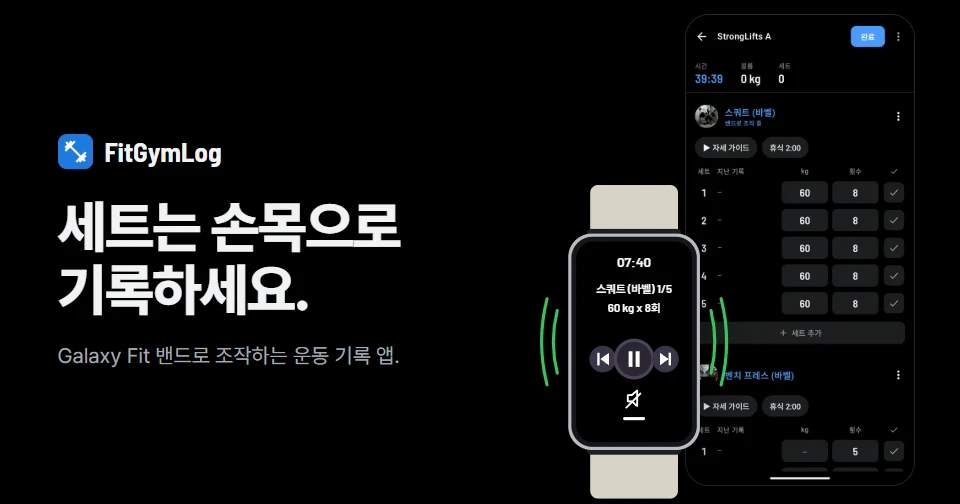
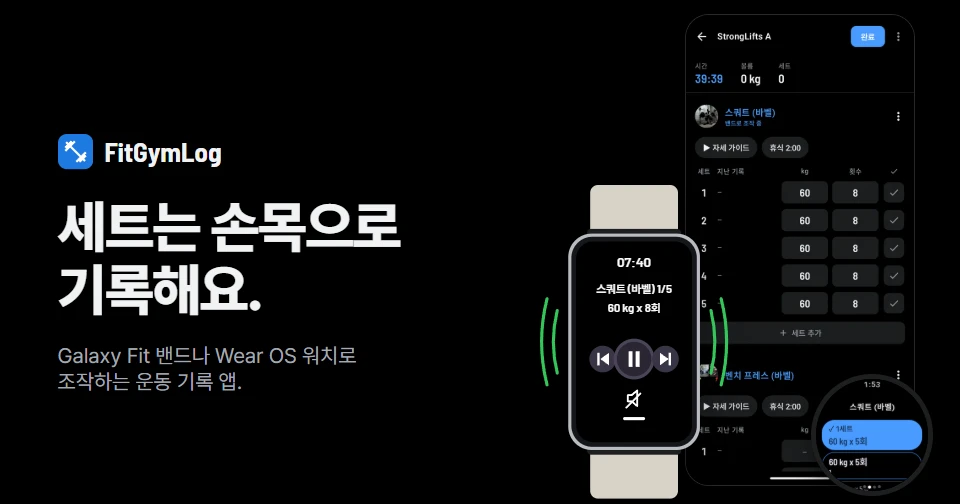
FitGymLog: the Wear OS watch on the thumbnail and in the card text, Korean headline as on the site

diff --git a/ja/index.html b/ja/index.html
@@ -48,7 +48,7 @@
           <button type="button" class="zoom slide-shot" aria-label="画像を拡大: FitGymLog" data-goatcounter-click="zoom-fitgymlog"><img class="thumb" src="../assets/thumbs/fitgymlog-en.webp" srcset="../assets/thumbs/fitgymlog-en.webp 960w, ../assets/thumbs/full/fitgymlog-en.webp 2400w" sizes="(max-width: 760px) 100vw, 780px" width="960" height="504" alt=""></button>
           <div class="slide-text">
             <h3 class="slide-name"><a href="https://wonjoonseol.github.io/fitgymlog/" data-goatcounter-click="title-fitgymlog">FitGymLog</a></h3>
-            <p class="what">Galaxy Fitバンドで操作する筋トレ記録アプリ。バンドの再生ボタンでセット完了、休憩が終わると振動でお知らせ、プレートをタップしてバーの重さを組めます。</p>
+            <p class="what">Galaxy FitバンドやWear OSウォッチで操作する筋トレ記録アプリ。バンドの再生ボタンかウォッチのタップでセット完了、休憩が終わると振動でお知らせ、プレートをタップしてバーの重さを組めます。</p>
           
             <p class="links"><a class="try" href="https://wonjoonseol.github.io/fitgymlog/" data-goatcounter-click="try-fitgymlog">サイトを見る</a><a class="code" href="https://github.com/wonjoonSeol/fitgymlog" data-goatcounter-click="code-fitgymlog">コード</a></p>
           </div>
@@ -119,7 +119,7 @@
           <p class="platform">Android<span class="license" title="ライセンス">MIT</span></p>
           <h3 class="name"><a href="https://wonjoonseol.github.io/fitgymlog/" data-goatcounter-click="title-fitgymlog">FitGymLog</a></h3>
           <p class="here-note">ここから来られました</p>
-          <p class="what">Galaxy Fitバンドで操作する筋トレ記録アプリ。バンドの再生ボタンでセット完了、休憩が終わると振動でお知らせ、プレートをタップしてバーの重さを組めます。</p>
+          <p class="what">Galaxy FitバンドやWear OSウォッチで操作する筋トレ記録アプリ。バンドの再生ボタンかウォッチのタップでセット完了、休憩が終わると振動でお知らせ、プレートをタップしてバーの重さを組めます。</p>
           
           <p class="links"><a class="try" href="https://wonjoonseol.github.io/fitgymlog/" data-goatcounter-click="try-fitgymlog">試してみる</a><a class="code" href="https://github.com/wonjoonSeol/fitgymlog" data-goatcounter-click="code-fitgymlog">コード</a></p>
           </div>

diff --git a/ko/index.html b/ko/index.html
@@ -48,7 +48,7 @@
           <button type="button" class="zoom slide-shot" aria-label="이미지 크게 보기: FitGymLog" data-goatcounter-click="zoom-fitgymlog"><img class="thumb" src="../assets/thumbs/fitgymlog-ko.webp" srcset="../assets/thumbs/fitgymlog-ko.webp 960w, ../assets/thumbs/full/fitgymlog-ko.webp 2400w" sizes="(max-width: 760px) 100vw, 780px" width="960" height="504" alt=""></button>
           <div class="slide-text">
             <h3 class="slide-name"><a href="https://wonjoonseol.github.io/fitgymlog/ko/" data-goatcounter-click="title-fitgymlog">FitGymLog</a></h3>
-            <p class="what">갤럭시 핏 밴드로 조작하는 운동 기록 앱이에요. 밴드에서 재생을 누르면 세트가 끝나고, 쉬는 시간이 끝나면 진동이 와요. 원판을 눌러 무게를 올려요.</p>
+            <p class="what">갤럭시 핏 밴드나 Wear OS 워치로 조작하는 운동 기록 앱이에요. 밴드에서 재생을 누르거나 워치를 누르면 세트가 끝나고, 쉬는 시간이 끝나면 진동이 와요. 원판을 눌러 무게를 올려요.</p>
           
             <p class="links"><a class="try" href="https://wonjoonseol.github.io/fitgymlog/ko/" data-goatcounter-click="try-fitgymlog">사이트 가기</a><a class="code" href="https://github.com/wonjoonSeol/fitgymlog" data-goatcounter-click="code-fitgymlog">코드</a></p>
           </div>
@@ -119,7 +119,7 @@
           <p class="platform">안드로이드<span class="license" title="라이선스">MIT</span></p>
           <h3 class="name"><a href="https://wonjoonseol.github.io/fitgymlog/ko/" data-goatcounter-click="title-fitgymlog">FitGymLog</a></h3>
           <p class="here-note">여기서 오셨어요</p>
-          <p class="what">갤럭시 핏 밴드로 조작하는 운동 기록 앱이에요. 밴드에서 재생을 누르면 세트가 끝나고, 쉬는 시간이 끝나면 진동이 와요. 원판을 눌러 무게를 올려요.</p>
+          <p class="what">갤럭시 핏 밴드나 Wear OS 워치로 조작하는 운동 기록 앱이에요. 밴드에서 재생을 누르거나 워치를 누르면 세트가 끝나고, 쉬는 시간이 끝나면 진동이 와요. 원판을 눌러 무게를 올려요.</p>
           
           <p class="links"><a class="try" href="https://wonjoonseol.github.io/fitgymlog/ko/" data-goatcounter-click="try-fitgymlog">써 보기</a><a class="code" href="https://github.com/wonjoonSeol/fitgymlog" data-goatcounter-click="code-fitgymlog">코드</a></p>
           </div>

diff --git a/index.html b/index.html
@@ -47,7 +47,7 @@
           <button type="button" class="zoom slide-shot" aria-label="Enlarge image: FitGymLog" data-goatcounter-click="zoom-fitgymlog"><img class="thumb" src="./assets/thumbs/fitgymlog-en.webp" srcset="./assets/thumbs/fitgymlog-en.webp 960w, ./assets/thumbs/full/fitgymlog-en.webp 2400w" sizes="(max-width: 760px) 100vw, 780px" width="960" height="504" alt=""></button>
           <div class="slide-text">
             <h3 class="slide-name"><a href="https://wonjoonseol.github.io/fitgymlog/" data-goatcounter-click="title-fitgymlog">FitGymLog</a></h3>
-            <p class="what">A workout log you run from a Galaxy Fit band. Press play on the band to finish a set, feel a buzz when rest is over, load the bar by tapping plates.</p>
+            <p class="what">A workout log you run from a Galaxy Fit band or a Wear OS watch. Press play on the band or tap the watch to finish a set, feel a buzz when rest is over, load the bar by tapping plates.</p>
           
             <p class="links"><a class="try" href="https://wonjoonseol.github.io/fitgymlog/" data-goatcounter-click="try-fitgymlog">Visit the site</a><a class="code" href="https://github.com/wonjoonSeol/fitgymlog" data-goatcounter-click="code-fitgymlog">Code</a></p>
           </div>
@@ -118,7 +118,7 @@
           <p class="platform">Android<span class="license" title="License">MIT</span></p>
           <h3 class="name"><a href="https://wonjoonseol.github.io/fitgymlog/" data-goatcounter-click="title-fitgymlog">FitGymLog</a></h3>
           <p class="here-note">You came from this one</p>
-          <p class="what">A workout log you run from a Galaxy Fit band. Press play on the band to finish a set, feel a buzz when rest is over, load the bar by tapping plates.</p>
+          <p class="what">A workout log you run from a Galaxy Fit band or a Wear OS watch. Press play on the band or tap the watch to finish a set, feel a buzz when rest is over, load the bar by tapping plates.</p>
           
           <p class="links"><a class="try" href="https://wonjoonseol.github.io/fitgymlog/" data-goatcounter-click="try-fitgymlog">Try it</a><a class="code" href="https://github.com/wonjoonSeol/fitgymlog" data-goatcounter-click="code-fitgymlog">Code</a></p>
           </div>

diff --git a/thumbs/fitgymlog.css b/thumbs/fitgymlog.css
@@ -1,5 +1,6 @@
-/* FitGymLog card: the site's hero (wordmark, headline, lead) beside the Galaxy Fit3 drawing over a workout screenshot.
-   Positions follow the site's 1200x630 link preview (images/og-*.jpg) scaled by 0.8. */
+/* FitGymLog card: the site's hero (wordmark, headline, lead) beside a workout screenshot with the Galaxy Fit3 drawing
+   on one side and the Wear OS watch on the other. Positions follow the site's 1200x630 link preview (images/og-*.jpg)
+   scaled by 0.8; the watch, added to the hero later, sits where the hero puts it, raised to stay inside the card. */
 html, body { margin: 0; width: 960px; height: 504px; overflow: hidden; }
 body {
   position: relative;
@@ -35,6 +36,14 @@ h1 {
   border: 1px solid #26272b; border-radius: 24px; overflow: hidden; background: #000;
 }
 .phone img { display: block; width: 100%; height: auto; }
+
+/* the hero's .watch at 0.8157 (the phone here is 228.4px against its 280px) */
+.watch {
+  position: absolute; left: 810.8px; top: 374px; width: 122px; height: 122px; box-sizing: border-box;
+  border: 5.7px solid #1d1e21; border-radius: 50%; overflow: hidden; background: #000;
+  box-shadow: 0 .8px 1.6px rgba(0, 0, 0, .5), 0 8.2px 24.5px rgba(0, 0, 0, .45);
+}
+.watch img { display: block; width: 100%; height: 100%; }
 
 .fit3 {
   position: absolute; left: 539.8px; top: 184.8px; width: 188.2px; height: 313.6px;

diff --git a/thumbs/fitgymlog-ko.html b/thumbs/fitgymlog-ko.html
@@ -15,10 +15,11 @@
   <svg viewBox="0 0 32 32" aria-hidden="true"><rect width="32" height="32" rx="8" fill="#1f7ae0"/><g transform="translate(4 4)"><path fill="#fff" d="M20.57,14.86L22,13.43 20.57,12 17,15.57 8.43,7 12,3.43 10.57,2 9.14,3.43 7.71,2 5.57,4.14 4.14,2.71 2.71,4.14l1.43,1.43L2,7.71l1.43,1.43L2,10.57 3.43,12 7,8.43 15.57,17 12,20.57 13.43,22l1.43,-1.43L16.29,22l2.14,-2.14 1.43,1.43 1.43,-1.43 -1.43,-1.43L22,16.29z"/></g></svg>
   FitGymLog
 </div>
-<h1>세트는 손목으로<br>기록하세요.</h1>
-<p class="lead">Galaxy Fit 밴드로 조작하는 운동 기록 앱.</p>
+<h1>세트는 손목으로<br>기록해요.</h1>
+<p class="lead">Galaxy Fit 밴드나 Wear OS 워치로<br>조작하는 운동 기록 앱.</p>
 
 <div class="phone"><img src="img/fitgymlog/workout-ko.webp" width="540" height="1110" alt=""></div>
+<div class="watch"><img src="img/fitgymlog/watch-ko.webp" width="454" height="454" alt=""></div>
 <svg class="fit3" viewBox="0 0 240 400" aria-hidden="true">
   <defs><clipPath id="fit3-screen"><rect x="54" y="70" width="132" height="260"/></clipPath></defs>
   <path class="wave" d="M22 160q-10 40 0 80"/><path class="wave" d="M9 145q-14 55 0 110"/>

diff --git a/thumbs/fitgymlog-en.html b/thumbs/fitgymlog-en.html
@@ -16,9 +16,10 @@
   FitGymLog
 </div>
 <h1>Log the set<br>from your wrist.</h1>
-<p class="lead">A workout log you run from your Galaxy Fit band.</p>
+<p class="lead">A workout log you run from your<br>Galaxy Fit or Wear OS watch.</p>
 
 <div class="phone"><img src="img/fitgymlog/workout-en.webp" width="540" height="1110" alt=""></div>
+<div class="watch"><img src="img/fitgymlog/watch-en.webp" width="454" height="454" alt=""></div>
 <svg class="fit3" viewBox="0 0 240 400" aria-hidden="true">
   <defs><clipPath id="fit3-screen"><rect x="54" y="70" width="132" height="260"/></clipPath></defs>
   <path class="wave" d="M22 160q-10 40 0 80"/><path class="wave" d="M9 145q-14 55 0 110"/>
